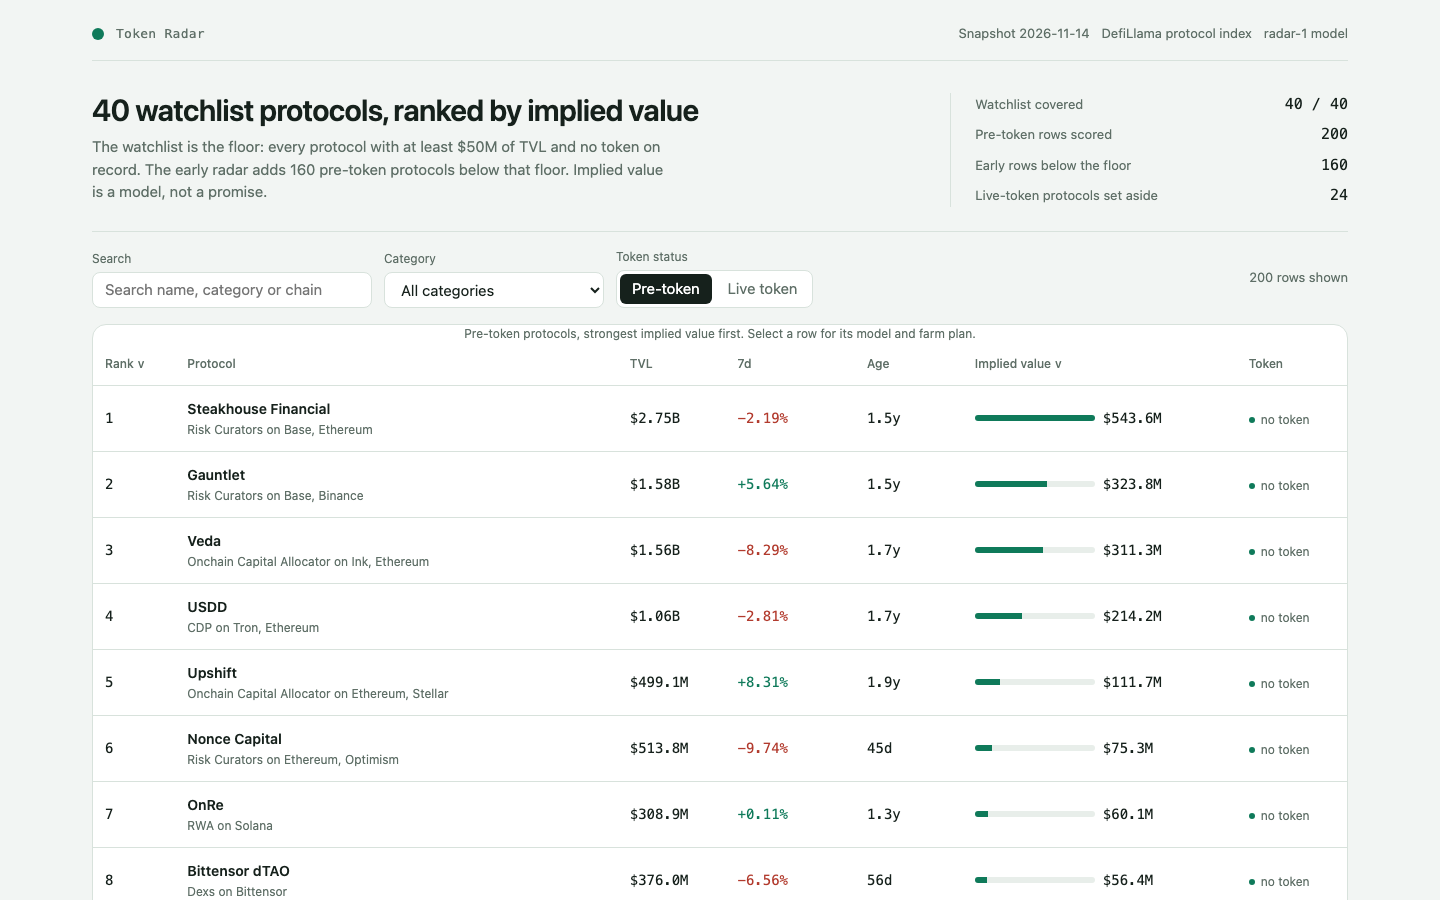
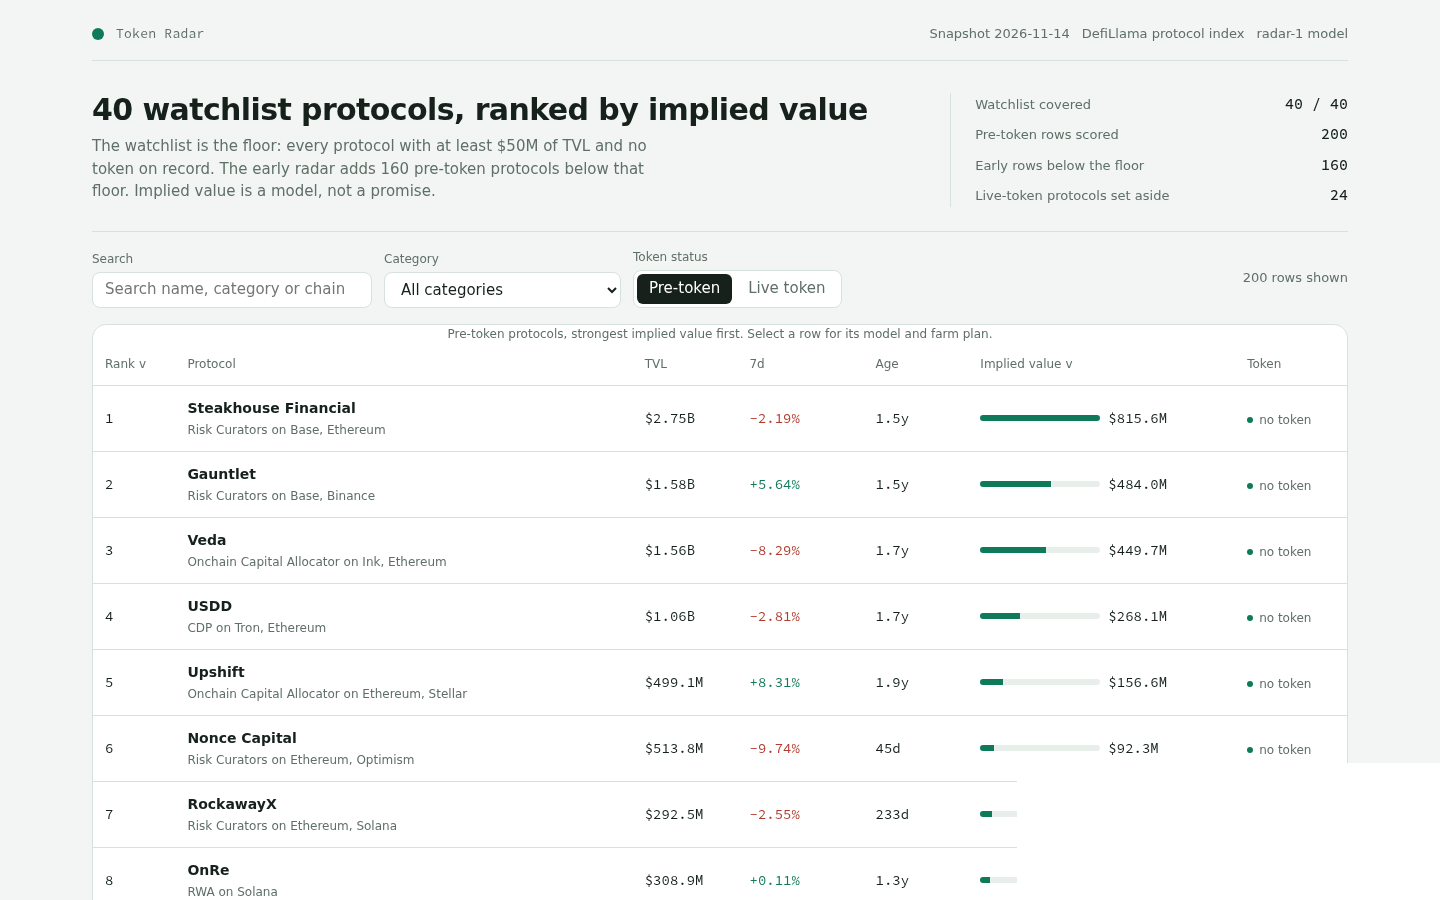
radar v2: stronger derived value model (exp growth, saturating age, chain breadth, category factors) + sortable/filterable dashboard with detail view and farm plans

diff --git a/lib/model.ts b/lib/model.ts
@@ -9,10 +9,11 @@
 // Implied value follows only from the snapshot's own figures:
 //
 //   base       = tvl_usd x BASE_MULTIPLE
-//   growth     = clamp(change_7d, -60, 120) per cent
-//   growthMult = 1 + (growth / 100) x GROWTH_WEIGHT
-//   maturity   = 0.6 + min(age_days, 1095) / 1095 x 0.4   (age_days unknown: 365)
-//   implied    = max(1, round(base x growthMult x maturity))
+//   growth     = exp(clamp(change_7d, -60, 120) / 100 x GROWTH_WEIGHT)
+//   maturity   = MATURITY_FLOOR + MATURITY_RANGE x age / (age + MATURITY_DAYS)
+//   breadth    = 1 + min(chains.length, CHAIN_CAP) x CHAIN_WEIGHT
+//   category   = CATEGORY_FACTORS[lowercase(category)] or CATEGORY_DEFAULT
+//   implied    = max(1, round(base x growth x maturity x breadth x category))
 //
 // The constants are the house model's, stated in the dashboard and changeable in the model sandbox. No
 // protocol name is ever special-cased: the same function scores every row.
@@ -50,17 +51,40 @@ export interface ModelConstants {
   maturity_range: number;
   maturity_days: number;
   unknown_age_days: number;
+  chain_weight: number;
+  chain_cap: number;
+  category_default: number;
+  category_factors: Record<string, number>;
 }
 
 export const MODEL: ModelConstants = {
   base_multiple: 0.25,
-  growth_weight: 0.5,
+  growth_weight: 0.45,
   growth_floor: -60,
   growth_cap: 120,
   maturity_floor: 0.6,
   maturity_range: 0.4,
-  maturity_days: 1095,
+  maturity_days: 365,
   unknown_age_days: 365,
+  chain_weight: 0.04,
+  chain_cap: 8,
+  category_default: 1,
+  category_factors: {
+    'bridge': 0.96,
+    'canonical bridge': 0.96,
+    'cdp': 1.08,
+    'cross chain bridge': 0.96,
+    'dexs': 1.02,
+    'lending': 1.12,
+    'liquid restaking': 1.06,
+    'onchain capital allocator': 1.06,
+    'prediction market': 1.02,
+    'restaking': 1.04,
+    'risk curators': 1.08,
+    'rwa': 1.04,
+    'uncollateralized lending': 1.1,
+    'yield aggregator': 1.03,
+  },
 };
 
 /** The model's version label: the dashboard names it and the rules quote it. */
@@ -100,6 +124,8 @@ export interface BoardRow {
     growth_pct: number;
     growth_multiplier: number;
     maturity_multiplier: number;
+    breadth_multiplier: number;
+    category_multiplier: number;
     age_days: number | null;
   };
   farm_steps: string[];
@@ -120,6 +146,8 @@ export interface RadarRow {
   implied_value_usd: number;
   growth_multiplier: number;
   maturity_multiplier: number;
+  breadth_multiplier: number;
+  category_multiplier: number;
 }
 
 /** A live-token protocol: it already trades, so the board shows the market's own value, not a model's. */
@@ -172,17 +200,29 @@ export function ageDays(asOf: string, listedAt: string | null): number | null {
   return Math.max(0, Math.floor((a - b) / DAY_MS));
 }
 
-/** The three multipliers and the implied value one protocol gets under `model`. */
-export function impliedValue(protocol: SnapshotProtocol, asOf: string, model: ModelConstants): { implied: number; growthPct: number; growthMult: number; maturityMult: number; age: number | null } {
+/** The derived multipliers and the implied value one protocol gets under `model`. */
+export function impliedValue(protocol: SnapshotProtocol, asOf: string, model: ModelConstants): {
+  implied: number;
+  growthPct: number;
+  growthMult: number;
+  maturityMult: number;
+  breadthMult: number;
+  categoryMult: number;
+  age: number | null;
+} {
   const age = ageDays(asOf, protocol.listed_at);
   const rawGrowth = finite(protocol.change_7d, 0);
   const growthPct = Math.min(model.growth_cap, Math.max(model.growth_floor, rawGrowth));
-  const growthMult = 1 + (growthPct / 100) * model.growth_weight;
+  const growthMult = Math.exp((growthPct / 100) * model.growth_weight);
   const ageForModel = age ?? model.unknown_age_days;
-  const maturityMult = model.maturity_floor + (Math.min(Math.max(ageForModel, 0), model.maturity_days) / model.maturity_days) * model.maturity_range;
+  const positiveAge = Math.max(ageForModel, 0);
+  const maturityMult = model.maturity_floor + (positiveAge / (positiveAge + model.maturity_days)) * model.maturity_range;
+  const breadthMult = 1 + Math.min(protocol.chains.length, model.chain_cap) * model.chain_weight;
+  const categoryMult = model.category_factors[(protocol.category ?? '').trim().toLowerCase()] ?? model.category_default;
   const base = protocol.tvl_usd * model.base_multiple;
-  const implied = Math.max(1, Math.round(base * growthMult * maturityMult));
-  return { implied, growthPct, growthMult, maturityMult, age };
+  const rawImplied = base * growthMult * maturityMult * breadthMult * categoryMult;
+  const implied = Math.max(1, Math.min(100_000_000_000_000, Math.round(rawImplied)));
+  return { implied, growthPct, growthMult, maturityMult, breadthMult, categoryMult, age };
 }
 
 /** DefiLlama's version-marker rule: a name ending in a release is a pool of another protocol. */
@@ -230,8 +270,8 @@ export function buildBoard(snapshot: Snapshot, model: ModelConstants = MODEL): B
   for (const p of early) chosen.set(p.slug, p);
 
   const scored = [...chosen.values()].map((p) => {
-    const { implied, growthPct, growthMult, maturityMult, age } = impliedValue(p, snapshot.as_of, model);
-    return { p, implied, growthPct, growthMult, maturityMult, age };
+    const { implied, growthPct, growthMult, maturityMult, breadthMult, categoryMult, age } = impliedValue(p, snapshot.as_of, model);
+    return { p, implied, growthPct, growthMult, maturityMult, breadthMult, categoryMult, age };
   });
   scored.sort((a, b) => b.implied - a.implied || (a.p.slug < b.p.slug ? -1 : a.p.slug > b.p.slug ? 1 : 0));
   return scored.map((s, i) => ({
@@ -254,6 +294,8 @@ export function buildBoard(snapshot: Snapshot, model: ModelConstants = MODEL): B
       growth_pct: s.growthPct,
       growth_multiplier: round4(s.growthMult),
       maturity_multiplier: round4(s.maturityMult),
+      breadth_multiplier: round4(s.breadthMult),
+      category_multiplier: round4(s.categoryMult),
       age_days: s.age,
     },
     farm_steps: farmSteps(s.p, s.age).map(stepText),
@@ -384,6 +426,8 @@ export function radarRow(row: BoardRow): RadarRow {
     implied_value_usd: row.implied_value_usd,
     growth_multiplier: row.model.growth_multiplier,
     maturity_multiplier: row.model.maturity_multiplier,
+    breadth_multiplier: row.model.breadth_multiplier,
+    category_multiplier: row.model.category_multiplier,
   };
 }
 

diff --git a/dashboard/app.js b/dashboard/app.js
@@ -26,14 +26,17 @@
     if (days >= 365) return (days / 365).toFixed(1) + 'y';
     return Math.max(0, Math.round(days)) + 'd';
   }
-  // The model in one function: the page recomputes a row from the snapshot figures and checks the
-  // number board.json carries, so the page's code and the board's data are visibly the same arithmetic.
+  // The page recomputes the board's value so the detail view can verify its displayed inputs.
   function impliedOf(row, model) {
     var growth = Math.min(model.growth_cap, Math.max(model.growth_floor, row.change_7d === null || row.change_7d === undefined ? 0 : row.change_7d));
-    var growthMult = 1 + (growth / 100) * model.growth_weight;
+    var growthMult = Math.exp((growth / 100) * model.growth_weight);
     var age = row.age_days === null || row.age_days === undefined ? model.unknown_age_days : row.age_days;
-    var maturity = model.maturity_floor + (Math.min(Math.max(age, 0), model.maturity_days) / model.maturity_days) * model.maturity_range;
-    return Math.max(1, Math.round(row.tvl_usd * model.base_multiple * growthMult * maturity));
+    age = Math.max(age, 0);
+    var maturity = model.maturity_floor + (age / (age + model.maturity_days)) * model.maturity_range;
+    var breadth = 1 + Math.min((row.chains || []).length, model.chain_cap) * model.chain_weight;
+    var category = model.category_factors[(row.category || '').trim().toLowerCase()];
+    if (category === undefined) category = model.category_default;
+    return Math.max(1, Math.min(100000000000000, Math.round(row.tvl_usd * model.base_multiple * growthMult * maturity * breadth * category)));
   }
 
   function el(tag, attrs) {
@@ -128,7 +131,7 @@
   function rows() {
     var q = state.q.trim().toLowerCase();
     return DATA.rows.filter(function (r) {
-      if (state.category !== 'all' && r.category !== state.category) return false;
+      if (state.category !== 'all' && (r.category || 'Other') !== state.category) return false;
       if (!q) return true;
       var hay = [r.name, r.slug, r.category, (r.chains || []).join(' ')].join(' ').toLowerCase();
       return hay.indexOf(q) >= 0;
@@ -287,9 +290,13 @@
       el('h2', { text: 'How implied value is computed' }),
       el('p', { class: 'sub', text: 'Every row is scored by one function of the snapshot figures. No protocol name is special-cased, and no row is hand-picked.' }),
       el('div', { class: 'formula' },
-        'implied = round( tvl_usd x ' + m.base_multiple + ' x (1 + clamp(change_7d, ' + m.growth_floor + ', ' + m.growth_cap + ') / 100 x ' + m.growth_weight + ') x (' + m.maturity_floor + ' + min(age_days, ' + m.maturity_days + ') / ' + m.maturity_days + ' x ' + m.maturity_range + ') )'
+        'implied = round(tvl x ' + m.base_multiple +
+          ' x exp(clamp(7d%, ' + m.growth_floor + ', ' + m.growth_cap + ') / 100 x ' + m.growth_weight + ')' +
+          ' x (' + m.maturity_floor + ' + ' + m.maturity_range + ' x age / (age + ' + m.maturity_days + '))' +
+          ' x (1 + min(chain_count, ' + m.chain_cap + ') x ' + m.chain_weight + ')' +
+          ' x category_factor)'
       ),
-      el('p', { class: 'sub', text: 'TVL and seven-day growth come from the snapshot. Age is the time since the protocol was first listed, the best record of how long it has run with no token; an unlisted age uses ' + m.unknown_age_days + ' days. The early radar is every pre-token protocol below the watchlist floor, by TVL, and the live-token protocols are set aside with their market caps shown.' })
+      el('p', { class: 'sub', text: 'TVL, seven-day growth, listing age and chain count come from the snapshot. Age saturates toward a ceiling; an unknown age uses ' + m.unknown_age_days + ' days. Category factors default to ' + m.category_default + ' with fixed overrides: ' + Object.keys(m.category_factors).sort().map(function (category) { return category + ' ' + m.category_factors[category]; }).join(', ') + '. The same formula scores every pre-token row; live-token protocols are kept separate.' })
     );
   }
 
@@ -319,6 +326,8 @@
         el('div', null, el('span', { text: 'Age with no token' }), el('b', { class: 'num', text: fmtAge(row.age_days) })),
         el('div', null, el('span', { text: 'Growth multiplier' }), el('b', { class: 'num', text: String(row.growth_multiplier) })),
         el('div', null, el('span', { text: 'Maturity multiplier' }), el('b', { class: 'num', text: String(row.maturity_multiplier) })),
+        el('div', null, el('span', { text: 'Chain breadth multiplier' }), el('b', { class: 'num', text: String(row.breadth_multiplier) })),
+        el('div', null, el('span', { text: 'Category multiplier' }), el('b', { class: 'num', text: String(row.category_multiplier) })),
         el('div', null, el('span', { text: 'Implied value' }), el('b', { class: 'num', text: fmtUsd(row.implied_value_usd) }))
       ),
       el('p', { class: 'sub', text: 'Model ' + DATA.model_version + ': the same function scores every protocol. The page recomputes this row as ' + fmtUsd(impliedOf(row, DATA.model)) + (impliedOf(row, DATA.model) === row.implied_value_usd ? ', the same number board.json carries.' : ', which differs from the board: the data would be stale.') + ' This is an estimate, not a price.' })

diff --git a/dashboard/index.html b/dashboard/index.html
@@ -3,6 +3,7 @@
 <head>
 <meta charset="utf-8">
 <meta name="viewport" content="width=device-width, initial-scale=1">
+<meta name="description" content="A sortable, filterable radar of pre-token protocols with an explainable implied-value model and per-protocol farming plans.">
 <title>Token Radar: pre-token protocols ranked by implied value</title>
 <link rel="stylesheet" href="app.css">
 </head>
